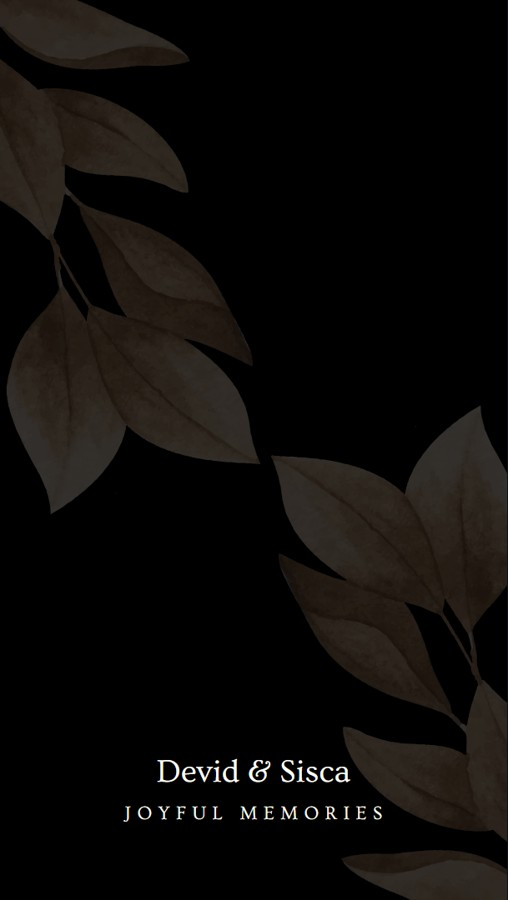
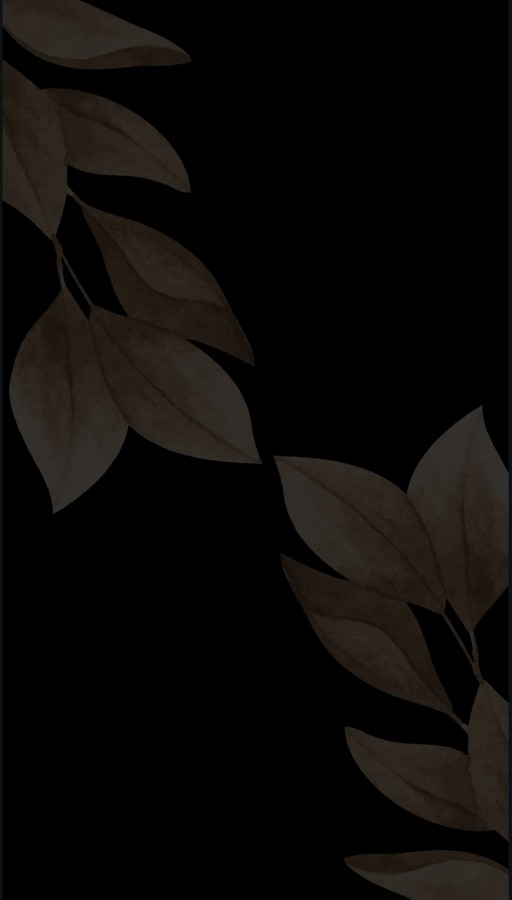
Add files via upload

diff --git a/style.css b/style.css
@@ -1054,7 +1054,7 @@ body, html {
 
 .love-story-content {
   position: absolute;
-  top: 15%; /* Memposisikan konten jauh lebih ke atas */
+  top: 15%;
   left: 50%;
   transform: translateX(-50%);
   padding: 40px;
@@ -1062,39 +1062,75 @@ body, html {
   width: 100%;
 }
 
-.love-story-title {
-  font-family: 'Playfair Display', serif;
-  font-style: italic;
-  font-weight: 300;
-  font-size: 64px;
-  color: white;
-  margin-bottom: 30px;
-  letter-spacing: 2px;
+/* Desktop/Laptop styles */
+@media screen and (min-width: 1024px) {
+  .love-story-title {
+    font-family: 'Playfair Display', serif;
+    font-style: italic;
+    font-weight: 300;
+    font-size: 42px; /* Reduced from 64px */
+    color: white;
+    margin-bottom: 20px;
+    letter-spacing: 2px;
+  }
+
+  .love-story-quote {
+    font-family: 'Montserrat', sans-serif;
+    font-size: 16px; /* Reduced from 18px */
+    line-height: 1.6;
+    color: white;
+    margin-bottom: 15px;
+    max-width: 500px; /* Reduced from 600px */
+    margin-left: auto;
+    margin-right: auto;
+  }
+
+  .love-story-destiny {
+    font-family: 'Playfair Display', serif;
+    font-style: italic;
+    font-weight: 300;
+    font-size: 20px; /* Reduced from 24px */
+    color: black;
+    margin-top: 30px;
+  }
 }
 
-.love-story-quote {
-  font-family: 'Montserrat', sans-serif;
-  font-size: 18px;
-  line-height: 1.6;
-  color: white;
-  margin-bottom: 20px;
-  max-width: 600px;
-  margin-left: auto;
-  margin-right: auto;
+/* Mobile styles */
+@media screen and (max-width: 1023px) {
+  .love-story-title {
+    font-family: 'Playfair Display', serif;
+    font-style: italic;
+    font-weight: 300;
+    font-size: 64px;
+    color: white;
+    margin-bottom: 30px;
+    letter-spacing: 2px;
+  }
+
+  .love-story-quote {
+    font-family: 'Montserrat', sans-serif;
+    font-size: 18px;
+    line-height: 1.6;
+    color: white;
+    margin-bottom: 20px;
+    max-width: 600px;
+    margin-left: auto;
+    margin-right: auto;
+  }
+
+  .love-story-destiny {
+    font-family: 'Playfair Display', serif;
+    font-style: italic;
+    font-weight: 300;
+    font-size: 24px;
+    color: black;
+    margin-top: 40px;
+  }
 }
 
-.love-story-destiny {
-  font-family: 'Playfair Display', serif;
-  font-style: italic;
-  font-weight: 300;
-  font-size: 24px;
-  color: black;
-  margin-top: 40px;
-}
-
+/* Small mobile styles */
 @media screen and (max-width: 600px) {
   .love-story-content {
-    top: 10%; /* Menyesuaikan untuk layar mobile */
     padding: 20px;
   }
 
@@ -1123,8 +1159,9 @@ body, html {
   background-position: center;
   background-repeat: no-repeat;
   display: flex;
-  align-items: flex-start;
-  justify-content: center;
+  flex-direction: column;
+  align-items: center;
+  justify-content: flex-start;
   padding: 60px 20px;
   opacity: 0;
   transform: translateY(50px);
@@ -1143,6 +1180,51 @@ body, html {
   display: flex;
   flex-direction: column;
   gap: 15px;
+}
+
+.gallery-caption {
+  width: 100%;
+  text-align: center;
+  padding-top: 60px;
+  margin-top: auto;
+}
+
+.gallery-caption .couple-name {
+  font-family: 'Great Vibes', cursive;
+  font-size: 64px;
+  color: white;
+  margin-bottom: 15px;
+  font-weight: normal;
+  text-shadow: 2px 2px 4px rgba(0, 0, 0, 0.3);
+}
+
+.gallery-caption .memories-text {
+  font-family: 'Montserrat', sans-serif;
+  font-size: 18px;
+  letter-spacing: 6px;
+  color: white;
+  font-weight: 300;
+  text-shadow: 1px 1px 2px rgba(0, 0, 0, 0.3);
+}
+
+@media screen and (max-width: 600px) {
+  .section-eight {
+    padding: 40px 15px;
+  }
+
+  .gallery-caption {
+    padding-top: 40px;
+  }
+
+  .gallery-caption .couple-name {
+    font-size: 48px;
+    margin-bottom: 10px;
+  }
+
+  .gallery-caption .memories-text {
+    font-size: 14px;
+    letter-spacing: 4px;
+  }
 }
 
 .gallery-row {
@@ -1813,4 +1895,37 @@ body, html {
 
 #bgMusic:hover {
   opacity: 1;
+}
+
+.gallery-caption {
+  text-align: center;
+  margin-top: 40px;
+  margin-bottom: 40px;
+}
+
+.gallery-caption .couple-name {
+  font-family: 'Great Vibes', cursive;
+  font-size: 48px;
+  color: white;
+  margin-bottom: 10px;
+  font-weight: normal;
+}
+
+.gallery-caption .memories-text {
+  font-family: 'Montserrat', sans-serif;
+  font-size: 16px;
+  letter-spacing: 4px;
+  color: white;
+  font-weight: 300;
+}
+
+@media screen and (max-width: 600px) {
+  .gallery-caption .couple-name {
+    font-size: 36px;
+  }
+
+  .gallery-caption .memories-text {
+    font-size: 14px;
+    letter-spacing: 3px;
+  }
 }

diff --git a/index.html b/index.html
@@ -4,7 +4,7 @@
   <meta charset="UTF-8" />
   <meta name="viewport" content="width=device-width, initial-scale=1.0" />
   <title>Wedding Invitation - Devid & Sisca</title>
-  <link href="https://fonts.googleapis.com/css2?family=Playfair+Display:wght@500;700&family=Montserrat:wght@300;500&display=swap" rel="stylesheet">
+  <link href="https://fonts.googleapis.com/css2?family=Playfair+Display:wght@500;700&family=Montserrat:wght@300;500&family=Great+Vibes&display=swap" rel="stylesheet">
   <link rel="stylesheet" href="style.css">
 </head>
 <body>
@@ -206,6 +206,10 @@
           </div>
         </div>
       </div>
+    </div>
+    <div class="gallery-caption">
+      <h2 class="couple-name">Devid & Sisca</h2>
+      <div class="memories-text">JOYFUL MEMORIES</div>
     </div>
   </div>
 
